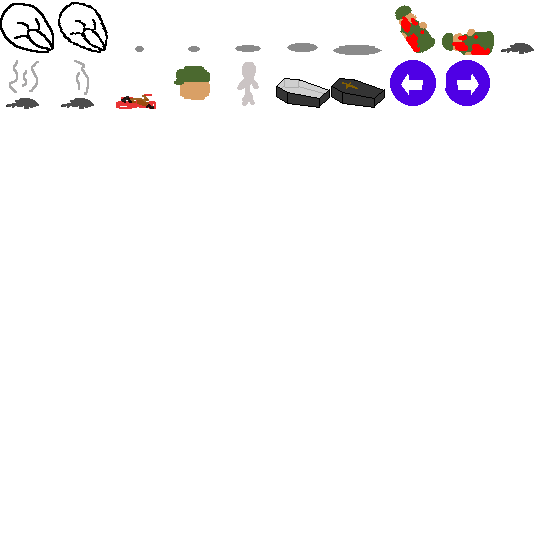
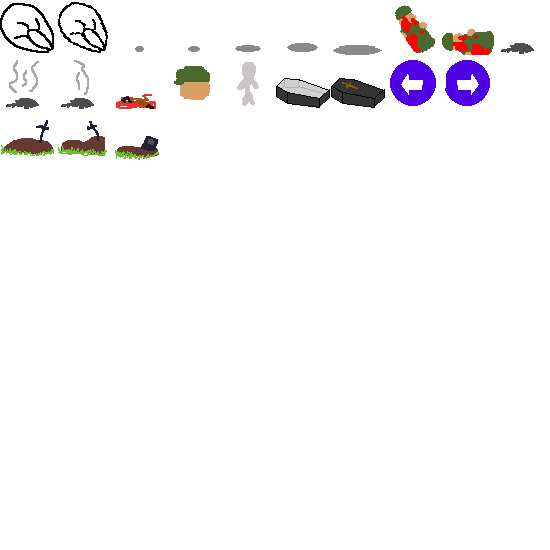
ftr(City): add cemetry

Changed region(s): [[0.0, 0.2164, 0.3091, 0.3091]]

diff --git a/minesweeper/src/game/Reserve.js b/minesweeper/src/game/Reserve.js
@@ -18,21 +18,29 @@ export default class Reserve {
     /** @type {Number} */
     _maxSize;
 
+    /** @type {Status} */
+    _status;
+
     /** @type {Phaser.Events.EventEmitter} */
     emitter;
 
-    constructor(scene, x, y, startCount, maxSize) {
+    _x;
+
+    constructor(scene, x, y, startCount, maxSize, status) {
         const me = this;
 
         me._scene = scene;
         me._maxSize = maxSize;
+        me._status = status;
+
+        me._x = x;
 
         me._reserve = [];
         for (let i = 0; i < maxSize; ++i) {
 
             const content = i >= startCount
                 ? Enums.Reserve.Empty
-                : Enums.Reserve.Soilder;
+                : Enums.Reserve.ClosedCoffin;
 
             const sprite = scene.add.sprite(0, -Consts.Unit * i, 'items', 13 + content)
                 .setInteractive();
@@ -46,7 +54,6 @@ export default class Reserve {
         }
 
         me._container = scene.add.container(x, y, me._reserve.map(r => r.sprite))
-            .setScrollFactor(0)
             .setDepth(Consts.Depth.UI);
 
         me.emitter = new Phaser.Events.EventEmitter();
@@ -95,10 +102,7 @@ export default class Reserve {
             targets: corpse.toGameObject(),
             x: target.x,
             y: target.y,
-            duration: Utils.getTweenDuration(
-                corpse.toPoint(),
-                target,
-                Consts.Speed.FillReserve),
+            duration: Consts.Speed.Reserve,
             ease: 'Sine.easeInOut',
             onComplete: () => {
 
@@ -119,17 +123,14 @@ export default class Reserve {
             r => r.content == Enums.Reserve.Empty);
 
         const target = Utils.buildPoint(
-            me._container.x + me._reserve[index].sprite.x - Consts.Viewport.Width,
+            me._container.x + me._reserve[index].sprite.x,
             me._container.y + me._reserve[index].sprite.y);
 
         me._scene.add.tween({
             targets: citizen.toGameObject(),
             x: target.x,
             y: target.y,
-            duration: Utils.getTweenDuration(
-                citizen.toPoint(),
-                target,
-                Consts.Speed.FillReserve),
+            duration: Consts.Speed.Reserve,
             ease: 'Sine.easeInOut',
             onComplete: () => {
 
@@ -151,12 +152,41 @@ export default class Reserve {
         return index != null;
     }
 
-    _onReserveClick() {
+    removeCoffin() {
         const me = this;
 
         const index = Utils.lastIndexOrNull(
             me._reserve,
-            r => r.content == Enums.Reserve.OpenCoffin);
+            r => r.content == Enums.Reserve.ClosedCoffin);
+
+        me._reserve[index].content = Enums.Reserve.Empty;
+        me._reserve[index].sprite.setFrame(13 + Enums.Reserve.Empty);
+
+        return Utils.buildPoint(
+            me._container.x,
+            me._container.y - index * Consts.Unit
+        );
+    }
+
+    shift(isCity) {
+        const me = this;
+
+        if (isCity)
+            me._container.setX(-Consts.Viewport.Width + me._x);
+        else
+            me._container.setX(me._x);
+    }
+
+    _onReserveClick() {
+        const me = this;
+
+        const target = me._status.isCity
+            ? Enums.Reserve.ClosedCoffin
+            : Enums.Reserve.OpenCoffin;
+
+        const index = Utils.lastIndexOrNull(
+            me._reserve,
+            r => r.content == target);
 
         if (index == null)
             return;

diff --git a/minesweeper/src/game/city/City.js b/minesweeper/src/game/city/City.js
@@ -1,6 +1,7 @@
 import Phaser from '../../lib/phaser.js';
 import Config from '../Config.js';
 import Consts from '../Consts.js';
+import Graphics from '../Graphics.js';
 import Reserve from '../Reserve.js';
 import Status from '../Status.js';
 import Utils from '../utils/Utils.js';
@@ -23,17 +24,28 @@ export default class City {
     /** @type {Status} */
     _status;
 
+    /** @type {Phaser.Geom.Point} */
+    _cemetryPos;
+
+    /** @type {Boolean[][]} */
+    _cemetry;
+
+    /** @type {Graphics} */
+    _graphics;
+
     /**
      * @param {Phaser.Scene} scene 
      * @param {Status} status
      * @param {Reserve} reserve
+     * @param {Graphics} graphics
      */
-    constructor(scene, status, reserve) {
+    constructor(scene, status, reserve, graphics) {
         const me = this;
 
         me._scene = scene;
         me._reserve = reserve;
         me._status = status;
+        me._graphics = graphics;
 
         scene.add.image(-Consts.Viewport.Width / 2, Consts.Viewport.Height / 2, 'city_background')
             .setDepth(Consts.Depth.Background);
@@ -46,8 +58,22 @@ export default class City {
 
         scene.physics.world.on('worldbounds', me._onWorldBounds);
 
-        me._citizenPool = new CitizenPool(scene, status, me._onCitizenClick, me);       
+        me._citizenPool = new CitizenPool(scene, status, me._onCitizenClick, me);
         me._citizenCount = Config.Levels[status.level].CitizenCount;
+
+        me._reserve.emitter.on('coffinClick', me._onReserveClick, me);
+
+        me._cemetryPos = Utils.buildPoint(-900, 550);
+        const width = Math.floor((-100 - (-900)) / Consts.Unit);
+        const height = Math.floor((720 - 550) / Consts.Unit);
+
+        me._cemetry = [];
+        for (let i = 0; i < height; ++i) {
+            const row = [];
+            for (let j = 0; j < width; ++j)
+                row.push(false);
+            me._cemetry.push(row);
+        }
     }
 
     resume() {
@@ -96,5 +122,42 @@ export default class City {
         const sprite = body.gameObject;
 
         sprite.setFlipX(!sprite.flipX);
+    }
+
+    _onReserveClick() {
+        const me = this;
+
+        if (me._status.isBusy || !me._status.isCity)
+            return;
+
+        me._status.busy();
+
+        const available = [];
+        for (let i = 0; i < me._cemetry.length; ++i)
+            for (let j = 0; j < me._cemetry[i].length; ++j)
+                if (!me._cemetry[i][j])
+                    available.push({i: i, j: j});
+
+        const index = Utils.getRandomEl(available);
+
+        const position = me._reserve.removeCoffin();
+        const coffin = me._graphics.createCoffin(position);
+        const target = Utils.buildPoint(
+            me._cemetryPos.x + index.j * Consts.Unit,
+            me._cemetryPos.y + index.i * Consts.Unit);
+
+        me._scene.add.tween({
+            targets: coffin,
+            x: target.x,
+            y: target.y,
+            ease: 'Sine.easeInOut',
+            duration: Consts.Speed.Reserve,
+            onComplete: () => {
+                me._graphics.createGrave(target);
+                me._graphics.killAndHide(coffin);
+                me._cemetry[index.i][index.j] = true;
+                me._status.free();
+            }
+        })
     }
 }

diff --git a/minesweeper/src/game/Core.js b/minesweeper/src/game/Core.js
@@ -52,7 +52,8 @@ export default class Core {
             Consts.Viewport.Width - Consts.Unit, 
             Consts.Viewport.Height - Consts.Unit,
             Config.Levels[me._status.level].ReserveStartCount,
-            Consts.ReserveMaxSize);
+            Consts.ReserveMaxSize,
+            me._status);
 
         me._screenTransfer = new ScreenTransfer(scene, me._status);
         me._screenTransfer.emmiter.on('transfer', me._onTransferClick, me);
@@ -60,12 +61,13 @@ export default class Core {
         const graphics = new Graphics(scene);
         me._minesweeper = new Minesweeper(scene, me._status, graphics, me._reserve);
 
-        me._city = new City(scene, me._status, me._reserve);
+        me._city = new City(scene, me._status, me._reserve, graphics);
 
         if (Config.Levels[me._status.level].StartInCity) {
             me._city.resume();
             scene.cameras.main.setScroll(
                 -Consts.Viewport.Width, 0);
+            me._reserve.shift(true);
         }
 
         Utils.ifDebug(Config.Debug.ShowSceneLog, () => {
@@ -87,7 +89,8 @@ export default class Core {
         Utils.ifDebug(Config.Debug.ShowSceneLog, () => {
             let text = 
                 `mse: ${pointer.x} ${pointer.y}\n` +
-                `ctz: ${me._city._citizenCount}`;
+                `ctz: ${me._city._citizenCount}\n` +
+                `cty: ${me._status.isCity}`;
 
             me._log.setText(text);
         });
@@ -124,6 +127,7 @@ export default class Core {
                 else 
                     me._city.pause();
 
+                me._reserve.shift(me._status.isCity);
                 me._screenTransfer.onTransferEnd();
                 me._status.free();
             }

diff --git a/minesweeper/src/game/Config.js b/minesweeper/src/game/Config.js
@@ -8,7 +8,7 @@ export default class Config {
         Random: false,
         Level: true,
         Restart: true,
-        Mines: false,
+        Mines: true,
         TweenSpeed: false,
         Timer: false,
     };
@@ -40,7 +40,7 @@ export default class Config {
         {
             Mines: 10,
             TimerDeathProbability: 25,
-            ReserveStartCount: 0,
+            ReserveStartCount: 5,
             StartInCity: true,
             CitizenCount: 20,
             MinCitizenSpeed: 50,

diff --git a/minesweeper/src/game/Graphics.js b/minesweeper/src/game/Graphics.js
@@ -53,6 +53,18 @@ export default class Graphics {
         return me._pool.create(pos.x, pos.y, 'explosions', 6);
     }
 
+    createCoffin(pos) {
+        const me = this;
+
+        return me._pool.create(pos.x, pos.y, 'items', 16);
+    }
+
+    createGrave(pos) {
+        const me = this;
+
+        return me._pool.create(pos.x, pos.y, 'items', Utils.getRandom(20, 22));
+    }
+
     killAndHide(obj) {
         const me = this;
 

diff --git a/minesweeper/src/game/Status.js b/minesweeper/src/game/Status.js
@@ -1,3 +1,5 @@
+import Config from './Config.js';
+
 export default class Status {
 
     /** @type {Boolean} */
@@ -6,10 +8,14 @@ export default class Status {
     /** @type {Number} */
     level;
 
+    /** @type {Boolean} */
+    isCity;
+
     constructor(level) {
         const me = this;
 
         me.level = level;
+        me.isCity = Config.Levels[level].StartInCity;
     }
 
     busy() {

diff --git a/minesweeper/src/game/minesweeper/Minesweeper.js b/minesweeper/src/game/minesweeper/Minesweeper.js
@@ -312,7 +312,7 @@ export default class Minesweeper {
     _onCoffinClick() {
         const me = this;
 
-        if (me._status.isBusy)
+        if (me._status.isBusy || me._status.isCity)
             return;
 
         if (me._corpses.length == 0)

diff --git a/minesweeper/src/game/ScreenTransfer.js b/minesweeper/src/game/ScreenTransfer.js
@@ -51,6 +51,7 @@ export default class ScreenTransfer {
 
         me._status.busy();
         me._inCity = !me._inCity;
+        me._status.isCity = !me._status.isCity;
         
         me._button.setVisible(false);
 

diff --git a/minesweeper/src/game/Consts.js b/minesweeper/src/game/Consts.js
@@ -22,7 +22,7 @@ export default class Consts {
         Spawn: 200,
         SoilderMovement: 400,
         Shot: 7000,
-        FillReserve: 400,
+        Reserve: 750,
         Camera: 1000,
     };
 
